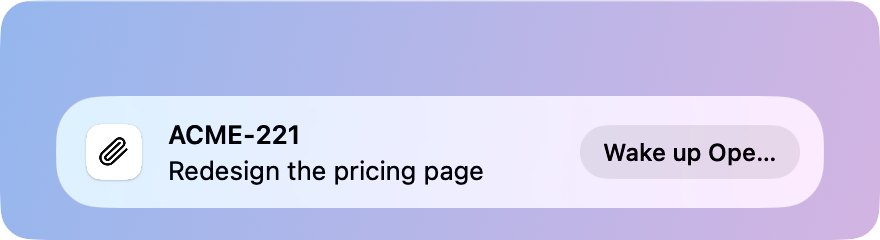
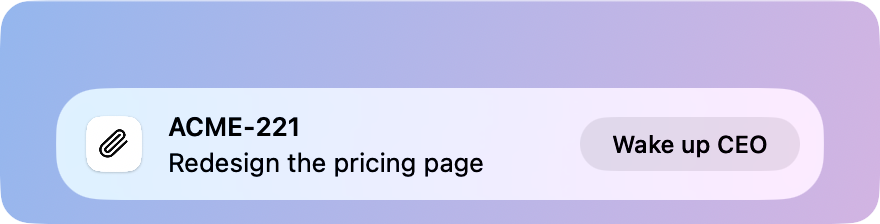
docs(images): retake the notification capture and add its dark version
Both come from macos/snapshot.zsh notifications (mac-agent-light/dark.png). The README now names the landing as a consumer and where it crops the notification.

diff --git a/docs/images/README.md b/docs/images/README.md
@@ -1,6 +1,8 @@
 # Images
 
-Images used by `README.md` and `README.es.md`. They are taken with `macos/snapshot.zsh` from a test copy of
+Images used by `README.md`, `README.es.md` and the landing (`site/build.sh` makes its WebP versions from
+them; `site/styles.css` crops the hero notification by its size and card position, so update it if
+`notification.png` changes). They are taken with `macos/snapshot.zsh` from a test copy of
 the app (another `APP_ID`, in English with `APP_LANGUAGE=en`) connected to a separate Paperclip instance
 with a made-up company. No personal information is on screen (company names, tasks, addresses).
 
@@ -12,7 +14,8 @@ with a made-up company. No personal information is on screen (company names, tas
 | `window-glass.png` | The main window with the Liquid Glass sidebar | The same, light, with Liquid Glass in Paperclip turned on |
 | `welcome.png` | The connection step of the welcome | `macos/snapshot.zsh welcome` (`found-light.png`) |
 | `settings.png` | Settings, General tab | `macos/snapshot.zsh settings` (`general-light.png`) |
-| `notification.png` | The stuck-task notification with its Wake up button | `macos/snapshot.zsh notifications` (`mac-agent-light.png`) |
+| `notification.png` | The stuck-task notification with its Wake up button, light | `macos/snapshot.zsh notifications` (`mac-agent-light.png`) |
+| `notification-dark.png` | The same, dark (used by the landing in dark mode) | `macos/snapshot.zsh notifications` (`mac-agent-dark.png`) |
 
 The window images use `page` instead of `window` because `page` follows the copy's own Appearance and Liquid
 Glass settings, so light and dark don't depend on the Mac's.
